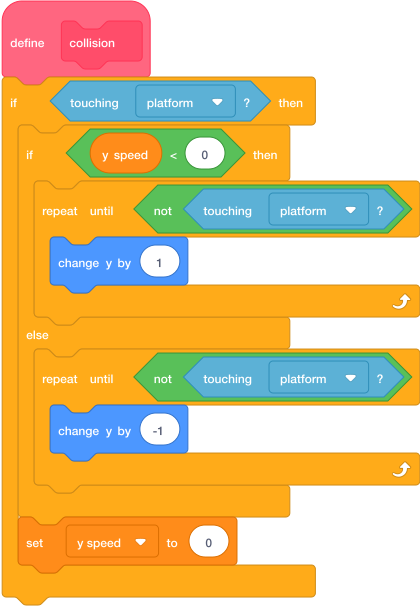
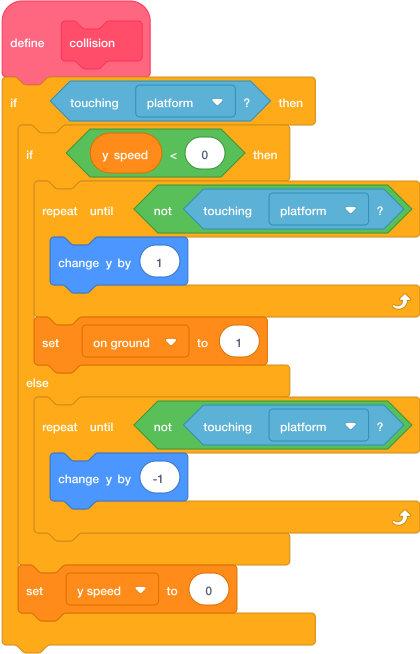
commit

diff --git a/docs/arcade-quest/tasks/space-bar-jump.md b/docs/arcade-quest/tasks/space-bar-jump.md
@@ -2,14 +2,15 @@
 
 ## Goal
 
-Make the player jump once for each press of the space bar.
+Make the player jump from the ground or a platform, once for each press of the space bar.
 
 ## Do This
 
 1. Click the `Player` sprite.
 2. Build the script below.
-3. Keep the starting-position, movement, gravity, and collision scripts on the sprite.
-4. Press the green flag, then tap **space**.
+3. Keep the starting-position and movement scripts, plus the gravity script and all three custom blocks from the previous tasks. Do not add a separate collision loop.
+4. Use `on ground` from **Add Platform Collision** to allow a jump only while standing on a platform or the ground. Set it to `0` immediately when jumping.
+5. Press the green flag, then tap **space**.
 
 ![Scratch blocks for jumping with the space bar](../assets/scratchblocks/space-bar-jump.png){ .scratch-image }
 
@@ -17,5 +18,8 @@ Make the player jump once for each press of the space bar.
 
 - The player jumps when you press **space**.
 - Holding space does not keep starting new jumps.
-- Releasing space lets you press it again for another jump.
+- Releasing space lets you press it again for another jump after landing.
+- Press space repeatedly while in the air. It must not restart the jump.
+- Jump underneath a platform. The player should hit its underside and fall back down.
+- Land on a platform, release space, then press it again. The player should jump up from the platform without falling through it.
 - The player falls back down and stops on a platform or at ground level.

diff --git a/docs/arcade-quest/tasks/05-jump-gravity.md b/docs/arcade-quest/tasks/05-jump-gravity.md
@@ -2,18 +2,23 @@
 
 ## Goal
 
-Make the player fall and stay between the top and bottom of the Stage.
+Use your custom blocks to make the player fall and land on platforms.
 
 ## Do This
 
 1. Click the `Player` sprite.
-2. Keep the starting-position script from [Set Your Player's Start Position](set-start-position.md) on the sprite.
-3. Build the script below, with both boundary checks inside the same `forever` loop.
+2. Keep your starting-position and left-and-right movement scripts.
+3. Check that you have built `collision`, `check stage edges`, and `move vertically` from the last three tasks.
+4. Build this new script. Find `move vertically` in **My Blocks**.
 
-![Scratch blocks for gravity with the top and bottom boundary checks in one loop](../assets/scratchblocks/gravity-and-top-boundary.png){ .scratch-image }
+![Scratch gravity loop calling move vertically](../assets/scratchblocks/collision-loop.png){ .scratch-image }
+
+`change y speed by -1` makes the player fall. `move vertically` moves the player and uses your other blocks to check platforms and stage edges.
 
 ## Check
 
-Press the green flag. Drag the player above ground level and release it. It should fall and stop at `y: -130`.
+Press the green flag. Drag the player above a platform and release it. It should fall onto the platform and stop.
 
-You will add platform collision and jumping in the next tasks.
+Try dropping the player where there is no platform. It should stop at ground level, `y: -130`.
+
+Next: [Jump With Space](space-bar-jump.md).

diff --git a/docs/arcade-quest/tasks/platform-collision.md b/docs/arcade-quest/tasks/platform-collision.md
@@ -6,7 +6,9 @@ Stop the player falling through platforms.
 
 ## Do This
 
-Select the `Player` sprite, then follow these steps.
+Select the `Player` sprite. Create a variable named `on ground` **for this sprite only**. Use `1` for standing on a platform or the ground, and `0` for being in the air.
+
+Then follow these steps.
 
 1. Click **My Blocks**.
 2. Click **Make a Block**.
@@ -19,10 +21,10 @@ In each `touching` block, choose the sprite containing your platforms.
 
 ![Scratch blocks defining platform collision](../assets/scratchblocks/collision-definition.png){ .scratch-image }
 
-Now run the collision block continuously:
-
-![Scratch blocks running collision in a loop](../assets/scratchblocks/collision-loop.png){ .scratch-image }
-
 ## Check
 
-Press the green flag. Drag the player just above a platform and release it. It should fall onto the platform and stop.
+Your `collision` definition should match the picture. Check that each `touching` block uses your platform sprite.
+
+We will use this block in **Move Vertically**, then run it when we build **Add Gravity**.
+
+Next: [Check Stage Edges](check-stage-edges.md).

diff --git a/docs/arcade-quest/tasks/move-vertically.md b/docs/arcade-quest/tasks/move-vertically.md
@@ -1,0 +1,27 @@
+# Move Vertically { .arcade-task }
+
+## Goal
+
+Move in small steps so the player cannot skip through a thin platform.
+
+## Do This
+
+Select the `Player` sprite.
+
+1. Click **My Blocks → Make a Block**.
+2. Name it `move vertically`.
+3. Tick **Run without screen refresh**, then click **OK**.
+4. Build the script below. Use the pink blocks you made on the last two pages.
+5. For `abs of`, use the green Operators block with the dropdown and select **abs**.
+
+![Scratch blocks defining movement one pixel at a time](../assets/scratchblocks/move-vertically-definition.png){ .scratch-image }
+
+`abs` gives the number of steps. For example, a speed of `-5` means five steps down. The block checks for a collision after each step.
+
+## Check
+
+Check that both directions call `collision` and `check stage edges` after moving one pixel.
+
+Your three custom blocks are ready. On the next page, you will build the gravity script that runs them.
+
+Next: [Add Gravity](05-jump-gravity.md).

diff --git a/docs/arcade-quest/tasks/check-stage-edges.md b/docs/arcade-quest/tasks/check-stage-edges.md
@@ -1,0 +1,27 @@
+# Check Stage Edges { .arcade-task }
+
+## Goal
+
+Make a block that keeps the player between the top and bottom of the Stage.
+
+## Do This
+
+Select the `Player` sprite.
+
+1. Click **My Blocks → Make a Block**.
+2. Name it `check stage edges`.
+3. Tick **Run without screen refresh**.
+4. Click **OK**.
+5. Build the script below.
+
+![Scratch blocks checking the top and bottom stage edges](../assets/scratchblocks/stage-edges-definition.png){ .scratch-image }
+
+The first check stops the player at the top of the Stage. The second stops them at ground level. `set on ground to 1` lets the player jump after landing on the ground.
+
+## Check
+
+Check the numbers: `170` for the top and `-130` for the bottom.
+
+Keep your `collision` block. We will connect both blocks on the next page.
+
+Next: [Move Vertically](move-vertically.md).

diff --git a/docs/arcade-quest/updates.md b/docs/arcade-quest/updates.md
@@ -12,7 +12,7 @@
     - The player now lands by detecting the `Platforms` sprite while falling.
     - Platform colour sensing is no longer needed.
 
-    If you have already drawn floating platforms on the backdrop, follow **Create Platforms** in Part 1 to move them into a `Platforms` sprite, then replace the player code using **Add Gravity**, **Add Platform Collision**, and **Jump With Space**.
+    If you have already drawn floating platforms on the backdrop, follow **Create Platforms** in Part 1 to move them into a `Platforms` sprite, then replace the player code using **Add Platform Collision**, **Check Stage Edges**, **Move Vertically**, **Add Gravity**, and **Jump With Space**.
 
     ---
 

diff --git a/docs/arcade-quest/tasks/06-test-platforms.md b/docs/arcade-quest/tasks/06-test-platforms.md
@@ -8,7 +8,7 @@ Check that every platform works.
 
 1. Press the green flag.
 2. Jump onto the ground.
-3. Jump onto each floating platform.
+3. Jump onto each floating platform, then jump again from that platform. Check that the player rises and lands back on it.
 4. Walk off the edge of a platform.
 5. Check that every floating platform belongs to the `Platforms` sprite if the player falls through one.
 6. Hold **space**. The player should jump only once.

diff --git a/docs/arcade-quest/tasks/set-start-position.md b/docs/arcade-quest/tasks/set-start-position.md
@@ -18,7 +18,7 @@ When you click the green flag, the player starts at `x: -180`, `y: -130` and fac
 
 Keep this script on the sprite as you add movement and jumping in the next steps.
 
-In [Add Gravity](05-jump-gravity.md), you will add the ground check inside the gravity loop.
+In [Check Stage Edges](check-stage-edges.md), you will make a block that stops the player at ground level.
 
 ## Check
 
